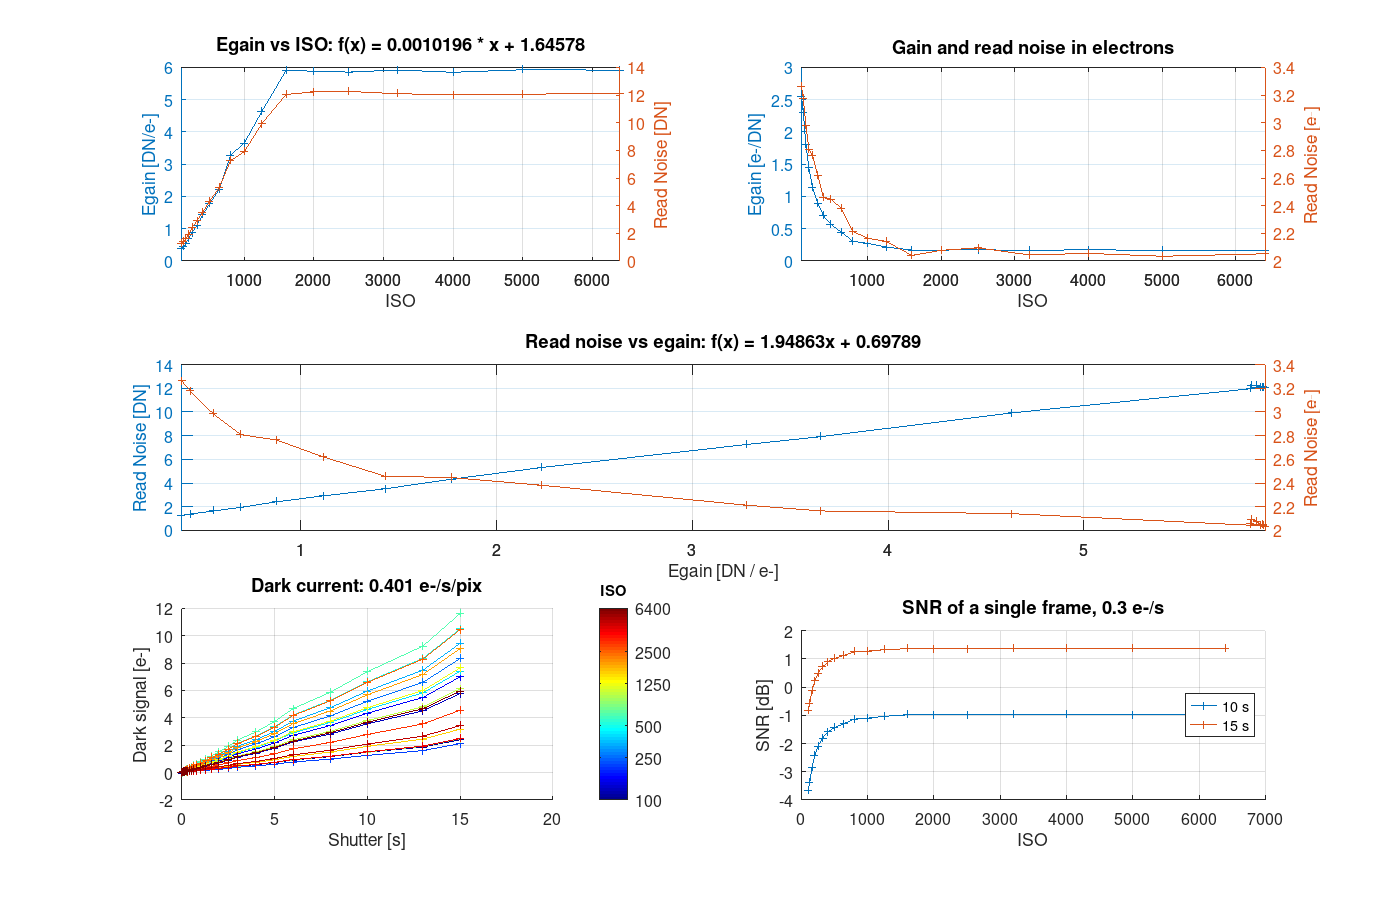
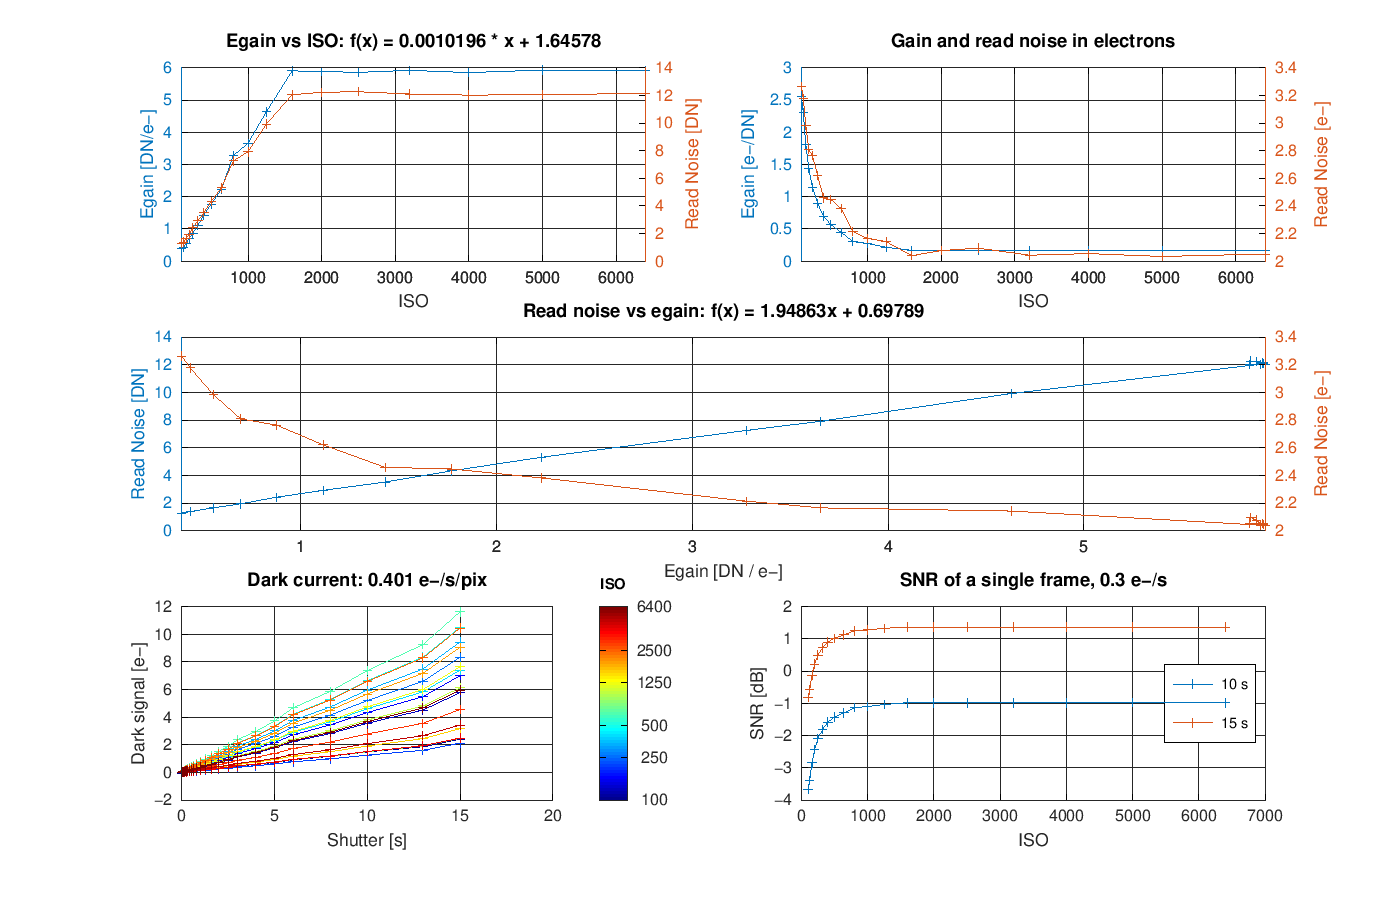
Add sensor_compare function for camera integration time comparison and update README files

diff --git a/sensor_compare.m b/sensor_compare.m
@@ -1,0 +1,79 @@
+function out = sensor_compare(cameras, sky = 0.3, t = 60)
+    % Integration-time comparison of camera models from sensor_models for one sky flux and
+    % sub-exposure length, same optics and QE assumed.
+    %
+    %   cameras: cellstr of model names, or cells {name, setting} to force an ISO/gain
+    %            (default: the setting with the lowest read noise in e-)
+    %   sky:     sky + target flux [e-/s/pix]
+    %   t:       sub-exposure length [s]
+    %
+    % Noise variance per second of integration: sky + dark + read_noise^2 / t.
+    % The required total time for equal SNR scales with that variance; the table reports it
+    % relative to the best camera. t_min is the sub length where read noise^2 is 10 % of the
+    % sky + dark variance (longer subs gain nothing from lower read noise).
+    %
+    % Example: sensor_compare({'ASI2600MM_5deg', {'Nikon_D5100', 1600}}, 0.3, 60)
+
+    out = struct('name', {}, 'setting', {}, 'egain', {}, 'read_noise', {}, 'dark_current', {}, ...
+                 't_min', {}, 'var_per_s', {}, 'rel_time', {});
+
+    for i = 1:numel(cameras)
+        c = cameras{i};
+        if iscell(c)
+            camera = sensor_models(c{1});
+            setting = c{2};
+        else
+            camera = sensor_models(c);
+            setting = [];
+        end
+
+        settings = camera_settings(camera);
+        rn_e = camera.egain2read_noise(camera.egain) ./ camera.egain;   % e-
+
+        if isempty(setting)
+            [~, k] = min(rn_e);
+        else
+            k = find(settings == setting, 1);
+            if isempty(k)
+                error('sensor_compare: %s has no setting %g (available: %s)', ...
+                      camera.name, setting, mat2str(settings));
+            end
+        end
+
+        r = struct();
+        r.name         = camera.name;
+        r.setting      = settings(k);
+        r.egain        = camera.egain(k);
+        r.read_noise   = rn_e(k);
+        r.dark_current = camera.dark_current;
+        r.t_min        = 10 * r.read_noise ^ 2 / (sky + r.dark_current);
+        r.var_per_s    = sky + r.dark_current + r.read_noise ^ 2 / t;
+        r.rel_time     = NaN;
+        out(end + 1) = r;
+    end
+
+    best = min([out.var_per_s]);
+    for i = 1:numel(out)
+        out(i).rel_time = out(i).var_per_s / best;
+    end
+
+    printf('\nSky %g e-/s/pix, subs %g s  (same optics and QE assumed)\n\n', sky, t);
+    printf('%-18s %8s %9s %8s %10s %8s %10s %9s\n', ...
+           'camera', 'setting', 'egain', 'RN [e-]', 'D [e-/s]', 't_min', 'var/s', 'time');
+    printf('%-18s %8s %9s %8s %10s %8s %10s %9s\n', ...
+           '', '', '[DN/e-]', '', '', '[s]', '[e-^2/s]', 'vs best');
+    for r = out
+        printf('%-18s %8g %9.3f %8.2f %10.4f %8.1f %10.3f %8.2fx\n', ...
+               r.name, r.setting, r.egain, r.read_noise, r.dark_current, r.t_min, r.var_per_s, r.rel_time);
+    end
+    printf('\n');
+end
+
+function s = camera_settings(camera)
+    % ISO for DSLR, gain [0.1 dB] for astro cameras (camera.iso is the ISO equivalent)
+    if camera.has_iso
+        s = camera.iso;
+    else
+        s = round(log10(camera.iso / 100) * 200);
+    end
+end

diff --git a/sensor_models.m b/sensor_models.m
@@ -2,26 +2,28 @@ function camera = sensor_models(name)
     % Returns a fitted sensor model by name (output of sensor_print_model).
     switch name
         case "ASI2600MM_5deg"
+            % egain below gain ~150 is unreliable: cooled darks carry too little signal for
+            % photon transfer (see README); read noise in DN is fine
             camera = {};
             camera.name = "ASI2600MM_5deg";
-            camera.egain2read_noise = @(egain) 0.683603 * egain + 2.97458; # DN
-            camera.dark_current = 0.00184594; # e-/s/pix
+            camera.egain2read_noise = @(egain) 0.692273 * egain + 1.70705; # DN
+            camera.dark_current = 0.00174143; # e-/s/pix
             camera.bias = 99; # DN
-            camera.egain = [ 8.15623 5.09856 7.47473 6.46064 9.06379 8.00017 6.46293 6.99126 7.20754 10.6459 19.7142 44.0167 63.6323 94.1885 165.682 266.537 ];
+            camera.egain = [ 6.15376 4.64231 7.14755 6.46586 7.55838 9.30614 10.6594 8.69506 6.84118 14.2484 25.3508 43.54 66.4655 108.061 161.314 263.544 ];
             camera.has_iso = 0; # if false, log10(iso / 100) * 200 = gain [0.1dB]
             camera.iso = [ 100 133.352 177.828 237.137 251.189 266.073 281.838 298.538 316.228 562.341 1000 1778.28 3162.28 5623.41 10000 17782.8 ];
-            camera.iso2egain = @(iso) 0.015119 * iso + 5.92291; # DN/e-
+            camera.iso2egain = @(iso) 0.01496 * iso + 7.63132; # DN/e-
 
         case "Nikon_D5100"
             camera = {};
             camera.name = "Nikon_D5100";
-            camera.egain2read_noise = @(egain) 2.08105 * egain + 0.572391; # DN
-            camera.dark_current = 0.443848; # e-/s/pix
-            camera.bias = 128; # DN
-            camera.egain = [ 0.364511 0.436173 0.551517 0.668151 0.891261 1.13563 1.38105 1.8045 2.22617 3.1798 3.58617 4.60874 ];
+            camera.egain2read_noise = @(egain) 1.94863 * egain + 0.69789; # DN
+            camera.dark_current = 0.401177; # e-/s/pix
+            camera.bias = 129; # DN
+            camera.egain = [ 0.391267 0.434638 0.553248 0.69269 0.874804 1.11363 1.43024 1.77036 2.2299 3.27807 3.65635 4.63258 5.90305 5.88421 5.85468 5.91954 5.84929 5.92751 5.91549 ];
             camera.has_iso = 1; # if false, log10(iso / 100) * 200 = gain [0.1dB]
-            camera.iso = [ 100 125 160 200 250 320 400 500 640 800 1000 1250 ];
-            camera.iso2egain = @(iso) 0.00372776 * iso + -0.0485242; # DN/e-
+            camera.iso = [ 100 125 160 200 250 320 400 500 640 800 1000 1250 1600 2000 2500 3200 4000 5000 6400 ];
+            camera.iso2egain = @(iso) 0.0010196 * iso + 1.64578; # DN/e-
 
         otherwise
             error("sensor_models: unknown sensor '%s'", name);

diff --git a/README.pl.md b/README.pl.md
@@ -134,6 +134,18 @@ Generuje syntetyczne statystyki z modelu (odwrotność `sensor_fit`).
 Test round-trip: `sensor_models` → `sensor_simulate` → `sensor_fit` → `sensor_plot`.
 Wynik powinien odtworzyć parametry wejściowego modelu.
 
+### sensor_compare(cameras, sky = 0.3, t = 60)
+Tabela porównawcza kamer z `sensor_models` dla zadanego strumienia nieba [e-/s/px] i długości klatki [s]
+(ta sama optyka i QE). Dla każdej kamery: ISO/gain (domyślnie z najniższym read noise w e-, albo
+wymuszone przez `{nazwa, ustawienie}`), egain, read noise [e-], prąd ciemny, `t_min` – długość klatki,
+od której read noise² to 10 % wariancji nieba+darka, wariancja na sekundę integracji
+`sky + D + RN²/t` i wynikający z niej względny czas integracji do tego samego SNR.
+```octave
+sensor_compare({'ASI2600MM_5deg', {'Nikon_D5100', 1600}}, 0.3, 60)
+```
+Przy ciemnym niebie (0.3 e-/s) D5100 potrzebuje ~2.5× czasu ASI2600 – prawie wyłącznie przez prąd
+ciemny; pod jasnym niebem (5 e-/s) różnica spada do ~9 %.
+
 ## Poza potokiem
 
 ### snr_vs_iso(name)

diff --git a/README.md b/README.md
@@ -134,6 +134,18 @@ Generates synthetic statistics from a model (inverse of `sensor_fit`).
 Round-trip test: `sensor_models` → `sensor_simulate` → `sensor_fit` → `sensor_plot`.
 The result should reproduce the input model parameters.
 
+### sensor_compare(cameras, sky = 0.3, t = 60)
+Comparison table of cameras from `sensor_models` for a given sky flux [e-/s/px] and sub length [s]
+(same optics and QE). Per camera: ISO/gain (default: lowest read noise in e-, or forced with
+`{name, setting}`), egain, read noise [e-], dark current, `t_min` – sub length at which read noise²
+is 10 % of the sky+dark variance, noise variance per second of integration `sky + D + RN²/t` and the
+resulting relative integration time for equal SNR.
+```octave
+sensor_compare({'ASI2600MM_5deg', {'Nikon_D5100', 1600}}, 0.3, 60)
+```
+Under a dark sky (0.3 e-/s) the D5100 needs ~2.5× the time of the ASI2600 – almost entirely due to
+dark current; under a bright sky (5 e-/s) the difference drops to ~9 %.
+
 ## Outside the pipeline
 
 ### snr_vs_iso(name)
